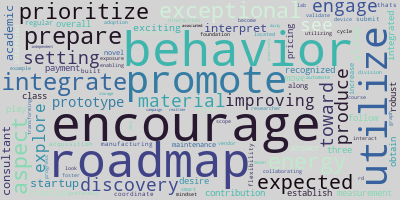
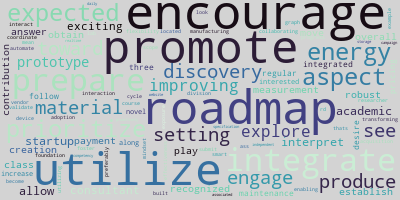
created utilities function and ngram cleaning code

diff --git a/nlp_main.py b/nlp_main.py
@@ -370,7 +370,8 @@ def clean_for_nlp(series_of_interest):
                                             'vigorously', 'hiv', 'past', 'organizationleaders', 'customerobsessed', 'thirteen',
                                             '85000', 'property', 'casualty', 'mass', 'brigham', 'driver', 'license',
                                             'second', 'dose', 'investigator', 'pittsburgh', 'pa', 'attract', 'retain',
-                                            'catered', 'lunch', 'booster', 'shot', 'maternity', 'prohibited']))) + ds_skills_combined
+                                            'catered', 'lunch', 'booster', 'shot', 'maternity', 'prohibited', 'behavior',
+                                            'exceptional']))) + ds_skills_combined
     
     stop_words = nltk.corpus.stopwords.words('english') + additional_stopwords + ds_cred_terms + ds_prof_skill_terms + ds_soft_skill_terms + ds_tech_skill_terms
     
@@ -630,6 +631,12 @@ def visualize_word_clouds(terms_for_nlp):
 # really need to grind out all stop words that aren't relevant
 # can break skill lists into why/how/what subsets later
 # think about a graphic showing a tree from a key word, like 'experience' linking to the highest bigrams on the right
+
+def utilities():
+    
+    # script for cleaning up the n_grams series and converting it to a list
+    strip_end = [x[:-3] for x in n_grams.index]
+    clean_list = [x[2:] for x in strip_end]
 
 
 def main_program():
